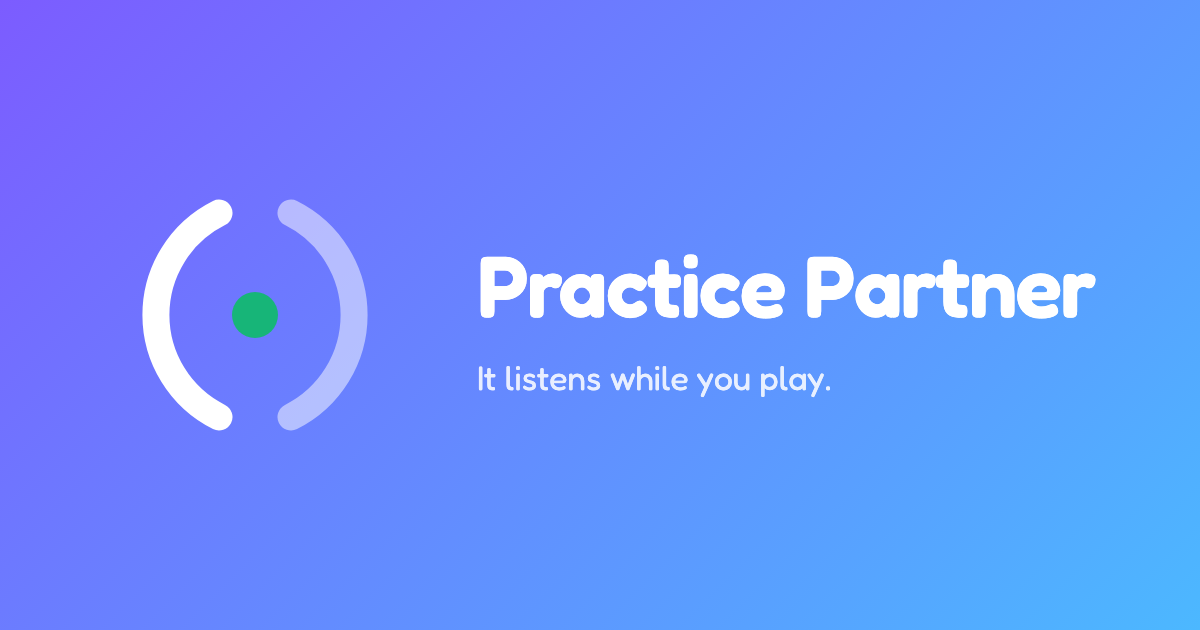
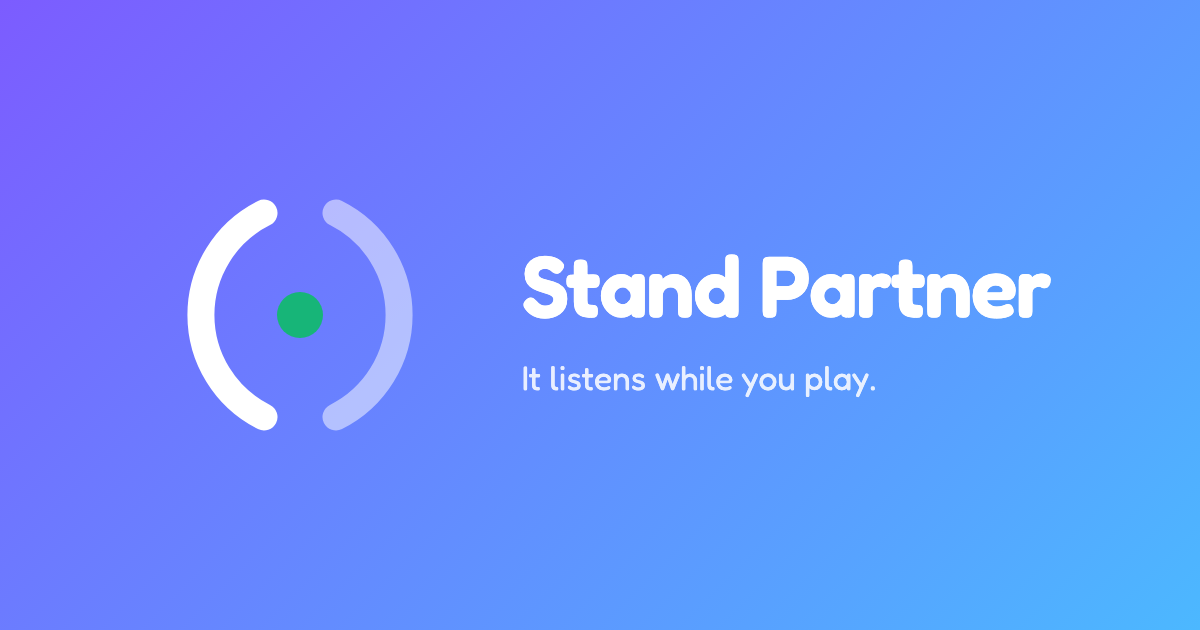
the app is called Stand Partner
Practice Partner is ABRSM's name on the App Store — seven "X Practice
Partner" apps — and App Store Connect refused it as taken. A stand partner
shares your music stand, turns pages with you and hears every note you play,
which is what this app does, down to the take landing on the page. Renamed
everywhere a person sees it: the title, the wordmark, the manifest, the iOS
display name and permission prompts, the privacy page, the share image and
the listing. The keys stay — bundle id, npm name, database and backup format,
cache prefix, Vercel project — as the note in store/db.js has always said.

Claude-Session: https://claude.ai/code/session_01JCGju5XEzYqMseDfajtsww

Changed region(s): [[0.0925, 0.3016, 0.37, 0.6937], [0.4008, 0.3921, 0.925, 0.5127], [0.4008, 0.573, 0.74, 0.6333]]

diff --git a/index.html b/index.html
@@ -15,7 +15,7 @@
        open: every text size here follows the system font scale, and the score
        reader scales the music itself.) -->
   <meta name="viewport" content="width=device-width, initial-scale=1, maximum-scale=1, user-scalable=no, viewport-fit=cover" />
-  <title>Practice Partner</title>
+  <title>Stand Partner</title>
   <meta name="description" content="A tuner, recorder and practice coach for anyone who plays a pitch. It listens while you play and tells you which notes ran sharp or flat, where the tempo drifted, and what has improved since last week. No account, no server — every recording stays on your device." />
   <!-- Versioned because Safari keeps icons in its own database, keyed by URL and
        quite separate from the HTTP cache — a changed file at an unchanged URL is
@@ -37,7 +37,7 @@
   <link rel="canonical" href="https://practicepartner.vercel.app/" />
   <meta property="og:type" content="website" />
   <meta property="og:url" content="https://practicepartner.vercel.app/" />
-  <meta property="og:title" content="Practice Partner" />
+  <meta property="og:title" content="Stand Partner" />
   <meta property="og:description" content="A tuner that remembers what you played — intonation, timing and progress from your own practice, all on your device." />
   <meta property="og:image" content="https://practicepartner.vercel.app/og.png" />
   <meta property="og:image:width" content="1200" />
@@ -4676,7 +4676,7 @@
        instrument has ever been chosen, so it never flashes on a return visit. -->
   <div id="welcome" hidden>
     <div id="welcome-card" role="dialog" aria-labelledby="welcome-title" aria-modal="true">
-      <h2 id="welcome-title"><svg class="mark" viewBox="0 0 100 100" aria-hidden="true"><path d="M38 16 A 38 38 0 0 0 38 84" fill="none" stroke="currentColor" stroke-width="9" stroke-linecap="round"/><path d="M62 16 A 38 38 0 0 1 62 84" fill="none" stroke="currentColor" stroke-opacity="0.5" stroke-width="9" stroke-linecap="round"/><circle cx="50" cy="50" r="7.5" fill="var(--wordmark-dot)"/></svg>practice partner</h2>
+      <h2 id="welcome-title"><svg class="mark" viewBox="0 0 100 100" aria-hidden="true"><path d="M38 16 A 38 38 0 0 0 38 84" fill="none" stroke="currentColor" stroke-width="9" stroke-linecap="round"/><path d="M62 16 A 38 38 0 0 1 62 84" fill="none" stroke="currentColor" stroke-opacity="0.5" stroke-width="9" stroke-linecap="round"/><circle cx="50" cy="50" r="7.5" fill="var(--wordmark-dot)"/></svg>stand partner</h2>
       <p class="welcome-lead">It listens while you practice and tells you what actually
       happened — which notes ran sharp or flat, where the tempo moved, and how cleanly
       you land after a leap.</p>
@@ -4701,7 +4701,7 @@
     </div>
   </div>
   <header>
-    <h1><svg class="mark" viewBox="0 0 100 100" aria-hidden="true"><path d="M38 16 A 38 38 0 0 0 38 84" fill="none" stroke="currentColor" stroke-width="9" stroke-linecap="round"/><path d="M62 16 A 38 38 0 0 1 62 84" fill="none" stroke="currentColor" stroke-opacity="0.5" stroke-width="9" stroke-linecap="round"/><circle cx="50" cy="50" r="7.5" fill="var(--wordmark-dot)"/></svg>practice partner</h1>
+    <h1><svg class="mark" viewBox="0 0 100 100" aria-hidden="true"><path d="M38 16 A 38 38 0 0 0 38 84" fill="none" stroke="currentColor" stroke-width="9" stroke-linecap="round"/><path d="M62 16 A 38 38 0 0 1 62 84" fill="none" stroke="currentColor" stroke-opacity="0.5" stroke-width="9" stroke-linecap="round"/><circle cx="50" cy="50" r="7.5" fill="var(--wordmark-dot)"/></svg>stand partner</h1>
     <button id="settings-btn" type="button" aria-label="Settings">
       <svg viewBox="0 0 24 24" fill="none" stroke="currentColor" stroke-width="1.7" stroke-linecap="round" stroke-linejoin="round">
         <path d="M12.22 2h-.44a2 2 0 0 0-2 2v.18a2 2 0 0 1-1 1.73l-.43.25a2 2 0 0 1-2 0l-.15-.08a2 2 0 0 0-2.73.73l-.22.38a2 2 0 0 0 .73 2.73l.15.1a2 2 0 0 1 1 1.72v.51a2 2 0 0 1-1 1.74l-.15.09a2 2 0 0 0-.73 2.73l.22.38a2 2 0 0 0 2.73.73l.15-.08a2 2 0 0 1 2 0l.43.25a2 2 0 0 1 1 1.73V20a2 2 0 0 0 2 2h.44a2 2 0 0 0 2-2v-.18a2 2 0 0 1 1-1.73l.43-.25a2 2 0 0 1 2 0l.15.08a2 2 0 0 0 2.73-.73l.22-.39a2 2 0 0 0-.73-2.73l-.15-.08a2 2 0 0 1-1-1.74v-.5a2 2 0 0 1 1-1.74l.15-.09a2 2 0 0 0 .73-2.73l-.22-.38a2 2 0 0 0-2.73-.73l-.15.08a2 2 0 0 1-2 0l-.43-.25a2 2 0 0 1-1-1.73V4a2 2 0 0 0-2-2z" />

diff --git a/src/store/db.js b/src/store/db.js
@@ -10,16 +10,18 @@
 import { landingStats } from '../analysis/landing.js';
 import { encodeStoredAudio, decodeStoredAudio, storedBytes } from '../audio/codec.js';
 
-// The app is called Practice Partner now. This is NOT — and the backup format
+// The app is called Stand Partner now. This is NOT — and the backup format
 // string below is not either. Both are keys, not names: renaming the database
 // points the app at an empty one and every take anybody has ever recorded is
 // still sitting in the old one, unreachable. Renaming the format string makes
 // every backup file already saved unimportable. They stay as they are.
 //
-// THE REST OF THE REPO HAS SINCE BEEN RENAMED and these two were deliberately
-// left behind, so nobody has to work out again why they look inconsistent: the
-// npm package, the Vercel project and the service worker's cache prefix are all
-// `practice-partner` now. The cache could move because it is swept on every
+// THE REST OF THE REPO HAS BEEN RENAMED TWICE (Music Companion, then Practice
+// Partner, then Stand Partner when the App Store turned out to have ABRSM's
+// Practice Partner apps already) and these two were deliberately left behind
+// each time, so nobody has to work out again why they look inconsistent. The
+// npm package, the Vercel project and the service worker's cache prefix are
+// still `practice-partner`: keys too, and nobody sees them. The cache could move because it is swept on every
 // activate and rebuilt from the network; these two cannot, because nothing
 // rebuilds somebody's practice history.
 const DB_NAME = 'music-companion';
@@ -930,7 +932,7 @@ export async function exportLibrary() {
 // the one thing about a recording that is already unique.
 export async function importLibrary(backup) {
   if (backup?.format !== 'music-companion-backup') {
-    throw new Error('that file is not a Practice Partner backup');
+    throw new Error('that file is not a Stand Partner backup');
   }
   const db = await openDB();
   const existing = await listRecordings();

diff --git a/public/privacy/index.html b/public/privacy/index.html
@@ -3,8 +3,8 @@
 <head>
 <meta charset="utf-8" />
 <meta name="viewport" content="width=device-width, initial-scale=1" />
-<title>Privacy — Practice Partner</title>
-<meta name="description" content="Practice Partner collects nothing and sends nothing. Everything you record stays on your device." />
+<title>Privacy — Stand Partner</title>
+<meta name="description" content="Stand Partner collects nothing and sends nothing. Everything you record stays on your device." />
 <style>
   :root {
     color-scheme: light dark;
@@ -39,10 +39,10 @@
 <body>
 <main>
   <h1>Privacy</h1>
-  <p class="lead">Practice Partner · last updated 1 September 2026</p>
+  <p class="lead">Stand Partner · last updated 1 September 2026</p>
 
   <div class="card">
-    <p><strong>Practice Partner collects nothing and sends nothing.</strong> There is no
+    <p><strong>Stand Partner collects nothing and sends nothing.</strong> There is no
     account, no server, no analytics and no third-party code in it. After the app has
     loaded it makes no network requests at all.</p>
   </div>
@@ -93,7 +93,7 @@
   <p>Questions about this policy can be raised at
   <a href="https://github.com/iankaroly/music-companion/issues">the app's issue tracker</a>.</p>
 
-  <footer>Practice Partner is open source. The claims on this page can be checked against
+  <footer>Stand Partner is open source. The claims on this page can be checked against
   the code at <a href="https://github.com/iankaroly/music-companion">github.com/iankaroly/music-companion</a>.</footer>
 </main>
 </body>

diff --git a/tools/logos.html b/tools/logos.html
@@ -3,7 +3,7 @@
 <head>
 <meta charset="utf-8" />
 <meta name="viewport" content="width=device-width, initial-scale=1" />
-<title>Practice Partner — marks</title>
+<title>Stand Partner — marks</title>
 <link rel="preload" href="/fonts/fredoka-latin.woff2" as="font" type="font/woff2" crossorigin />
 <style>
   @font-face {
@@ -121,7 +121,7 @@
 
   <header>
     <p class="eyebrow">Identity study</p>
-    <h1>Practice Partner</h1>
+    <h1>Stand Partner</h1>
     <p class="lede">
       Every tuner app draws a tuning fork. This one is not a tuner — it is a
       second presence in the room, listening while you play. So each mark below
@@ -226,8 +226,8 @@
         </div>
 
         <div class="lockups">
-          <span class="lockup on-light">${use(c.id)} Practice Partner</span>
-          <span class="lockup on-dark">${use(c.id)} Practice Partner</span>
+          <span class="lockup on-light">${use(c.id)} Stand Partner</span>
+          <span class="lockup on-dark">${use(c.id)} Stand Partner</span>
         </div>
       </div>
     </section>

diff --git a/src/ui/settings.js b/src/ui/settings.js
@@ -342,7 +342,7 @@ export function initSettings(doc = document) {
       const blob = new Blob([JSON.stringify(backup)], { type: 'application/json' });
       const a = doc.createElement('a');
       a.href = URL.createObjectURL(blob);
-      a.download = `practice-partner-history-${new Date(backup.exported).toISOString().slice(0, 10)}.json`;
+      a.download = `stand-partner-history-${new Date(backup.exported).toISOString().slice(0, 10)}.json`;
       a.click();
       setTimeout(() => URL.revokeObjectURL(a.href), 5000);
       announce(doc, 'backup');

diff --git a/tools/icon.html b/tools/icon.html
@@ -82,7 +82,7 @@
       <circle cx="150" cy="150" r="23" fill="#17b578" />
     </svg>
     <div class="words" hidden>
-      <h1>Practice Partner</h1>
+      <h1>Stand Partner</h1>
       <p>It listens while you play.</p>
     </div>
   </div>

diff --git a/docs/store/listing.md b/docs/store/listing.md
@@ -1,4 +1,4 @@
-# App Store listing — Practice Partner
+# App Store listing — Stand Partner
 
 Everything App Store Connect asks for on the first submission, ready to paste.
 The screenshots beside this file are the ones to upload (6.9" iPhone and 13"
@@ -9,8 +9,8 @@ iPad, five each, in the numbered order). `npm run store:shots` regenerates them.
 | Field | Value |
 |---|---|
 | Platform | iOS (covers iPhone and iPad) |
-| Name | Practice Partner: Music Coach |
-| | "Practice Partner" alone is taken store-wide. Fallbacks that fit 30 chars: "Practice Partner for Musicians", "Practice Partner Music". The name under the icon stays Practice Partner (CFBundleDisplayName). |
+| Name | Stand Partner |
+| | The app was Practice Partner until 2026-09-05; that name is ABRSM's on the store (seven "X Practice Partner" apps), so it changed. Names are editable per version if it changes again. |
 | Primary language | English (U.S.) |
 | Bundle ID | com.iankaroly.practicepartner |
 | SKU | practicepartner |
@@ -28,7 +28,7 @@ iPad, five each, in the numbered order). `npm run store:shots` regenerates them.
 
 **Description**
 
-    Practice Partner listens while you play and shows you what you played.
+    Stand Partner listens while you play and shows you what you played.
 
     Record a take on any instrument, or sing one, and the app draws it out note by note: the pitch of each one, how far it sat from centre, and where the pulse pushed or dragged. Photograph the page you are playing from and the take is marked straight onto the music, so a sharp F is a ring on the F that was sharp.
 
@@ -43,7 +43,7 @@ iPad, five each, in the numbered order). `npm run store:shots` regenerates them.
 
     FOR EVERY INSTRUMENT
 
-    Strings, winds, brass, voice, piano: if it plays a pitch, Practice Partner can hear it. Choose your instrument once and the tuner, the ranges and the review fit it.
+    Strings, winds, brass, voice, piano: if it plays a pitch, Stand Partner can hear it. Choose your instrument once and the tuner, the ranges and the review fit it.
 
     NOTHING LEAVES YOUR DEVICE
 

diff --git a/README.md b/README.md
@@ -1,4 +1,4 @@
-# Practice Partner
+# Stand Partner
 
 A practice companion for anyone who plays a pitch — strings, winds, brass or voice. Every line of DSP is hand-written: the pitch detection, the segmentation, the time-stretching and the page reading are all in this repo, with no library doing any of it.
 
